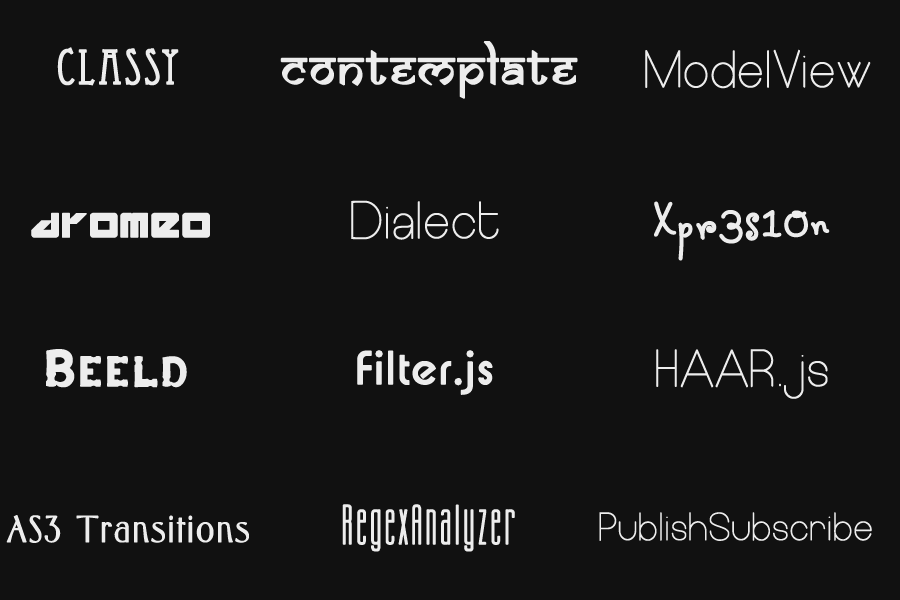
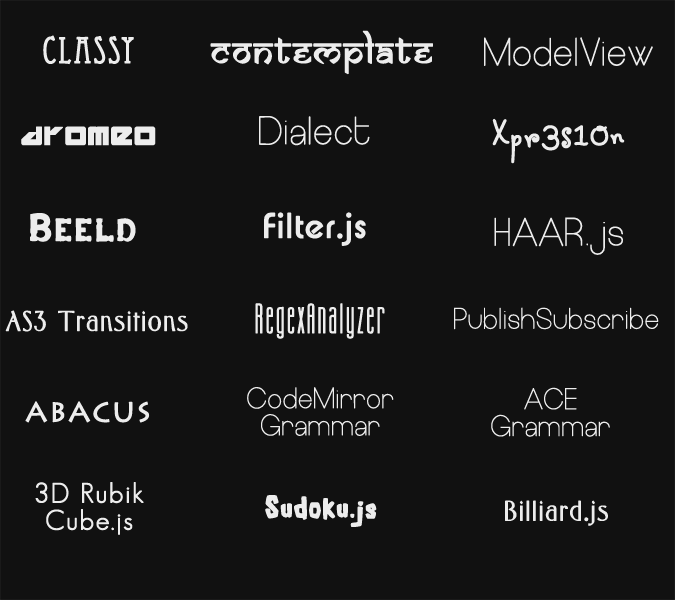
updates

diff --git a/index.html b/index.html
@@ -203,12 +203,12 @@
                 
                 <section id="techno" role="tab" class="fluid col-1-1 center-h text-center animated initially-hidden">
                     <div class="fuild col-1-1 text-center"><label for="closeController" class="round-rotated-button">close</label></div>
-                    <img src="logos.png" title="full-stack development web design and development in web 2.0 mashup html css w3c javascript jquery mootools actionscript flash joomla wordpress drupal modx magento oscommerce cms e-shop php mysql cakephp symfony doctrine smarty java spring struts hibernate python node.js c c++ dsp digital signal processing seo search engine optimization security scalability mobile app development phonegap" alt="full-stack development web design and development in web 2.0 mashup html css w3c javascript jquery mootools actionscript flash joomla wordpress drupal modx magento oscommerce cms e-shop php mysql cakephp symfony doctrine smarty java spring struts hibernate python node.js c c++ dsp digital signal processing seo search engine optimization security scalability mobile app development phonegap" />
+                    <img src="logos.png" title="full-stack development web design and development in web 2.0 mashup html css w3c javascript jquery mootools actionscript flash joomla wordpress drupal modx magento oscommerce cms e-shop php mysql cakephp symfony doctrine smarty java spring struts hibernate python node.js c c++ dsp digital signal processing seo search engine optimization security scalability mobile app development phonegap" alt="full-stack development web design and development in web 2.0 mashup html css w3c javascript jquery mootools actionscript flash joomla wordpress drupal modx magento oscommerce cms e-shop php mysql cakephp symfony doctrine smarty java spring struts hibernate python node.js c c++ dsp digital signal processing seo search engine optimization security scalability mobile app development phonegap nativeScript javascript to native framework" />
                 </section>
                 
                 <section id="projects" role="tab" class="fluid col-1-1 center-h text-center animated initially-hidden">
                     <div class="fuild col-1-1 text-center"><label for="closeController" class="round-rotated-button">close</label></div>
-                    <a href="http://foo123.github.io/" target="_blank"><img src="projects.png" title="Projects: Classy.js Object-Oriented Framework, Contemplate Template Engine, ModelView MVVM / MVC Framework, Dromeo Router, Dialect SQL, Xpresion Expression Parser Engine, Beeld Builder Framework, Filter.js Image Processing Library, HAAR.js Computer Vision Feature Detection, AS3 Transitions Library, RegexAnalyzer Regular Expressions Analyzer, PublishSubscribe Pattern Module" /></a>
+                    <a href="http://foo123.github.io/" target="_blank"><img src="projects.png" title="Projects: Classy.js Object-Oriented Framework, Contemplate Template Engine, ModelView MVVM / MVC Framework, Dromeo Router, Dialect SQL, Xpresion Expression Parser Engine, Beeld Builder Framework, Filter.js Image Processing Library, HAAR.js Computer Vision Feature Detection, AS3 Transitions Library, RegexAnalyzer Regular Expressions Analyzer, PublishSubscribe Pattern Module, Abacus Combinatorics library, CodeMirror Editor Grammar plugin, ACE Editor Grammar plugin, Games: 3D Rubik Cube in pure JavaScript, Sudoku game builder and solver in javascript, French and SAmerical Billiard game in pure javascript" /></a>
                 </section>
                 
                 <section id="contact" role="tab" class="fluid col-1-1 center-h text-center animated initially-hidden">
